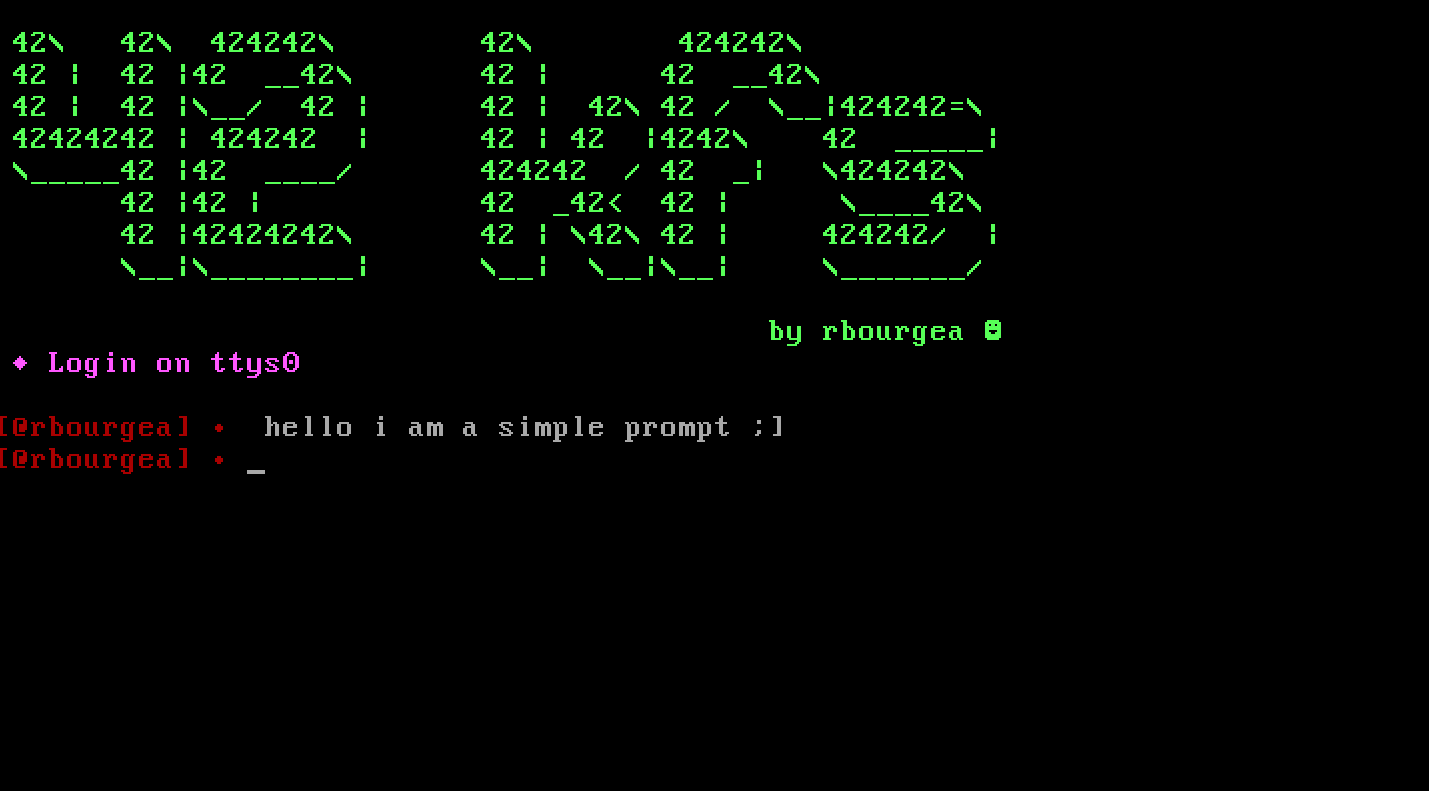
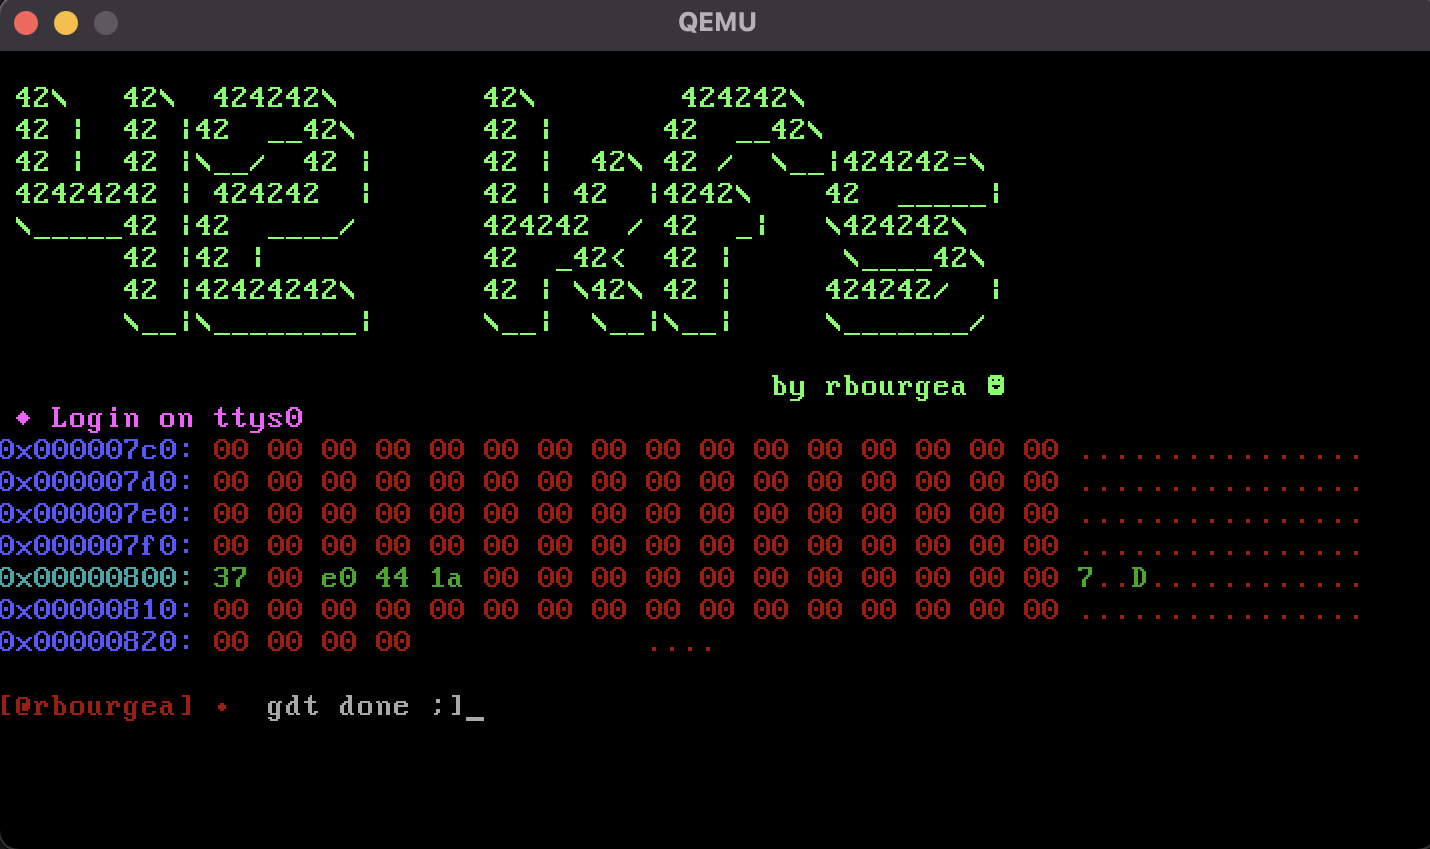
gdt done

diff --git a/src/kernel.c b/src/kernel.c
@@ -6,7 +6,7 @@
 /*   By: rbourgea <rbourgea@student.42.fr>          +#+  +:+       +#+        */
 /*                                                +#+#+#+#+#+   +#+           */
 /*   Created: 2022/06/16 16:29:20 by rbourgea          #+#    #+#             */
-/*   Updated: 2022/06/21 14:37:18 by rbourgea         ###   ########.fr       */
+/*   Updated: 2022/06/22 17:03:00 by rbourgea         ###   ########.fr       */
 /*                                                                            */
 /* ************************************************************************** */
 
@@ -266,16 +266,194 @@ void colrow_init(void)
 	}
 }
 
-void kmain()
+#define SEG_DESCTYPE(x)  ((x) << 0x04) // Descriptor type (0 for system, 1 for code/data)
+#define SEG_PRES(x)      ((x) << 0x07) // Present
+#define SEG_SAVL(x)      ((x) << 0x0C) // Available for system use
+#define SEG_LONG(x)      ((x) << 0x0D) // Long mode
+#define SEG_SIZE(x)      ((x) << 0x0E) // Size (0 for 16-bit, 1 for 32)
+#define SEG_GRAN(x)      ((x) << 0x0F) // Granularity (0 for 1B - 1MB, 1 for 4KB - 4GB)
+#define SEG_PRIV(x)     (((x) &  0x03) << 0x05)   // Set privilege level (0 - 3)
+ 
+#define SEG_DATA_RD        0x00 // Read-Only
+#define SEG_DATA_RDA       0x01 // Read-Only, accessed
+#define SEG_DATA_RDWR      0x02 // Read/Write
+#define SEG_DATA_RDWRA     0x03 // Read/Write, accessed
+#define SEG_DATA_RDEXPD    0x04 // Read-Only, expand-down
+#define SEG_DATA_RDEXPDA   0x05 // Read-Only, expand-down, accessed
+#define SEG_DATA_RDWREXPD  0x06 // Read/Write, expand-down
+#define SEG_DATA_RDWREXPDA 0x07 // Read/Write, expand-down, accessed
+#define SEG_CODE_EX        0x08 // Execute-Only
+#define SEG_CODE_EXA       0x09 // Execute-Only, accessed
+#define SEG_CODE_EXRD      0x0A // Execute/Read
+#define SEG_CODE_EXRDA     0x0B // Execute/Read, accessed
+#define SEG_CODE_EXC       0x0C // Execute-Only, conforming
+#define SEG_CODE_EXCA      0x0D // Execute-Only, conforming, accessed
+#define SEG_CODE_EXRDC     0x0E // Execute/Read, conforming
+#define SEG_CODE_EXRDCA    0x0F // Execute/Read, conforming, accessed
+ 
+#define GDT_CODE_PL0	SEG_DESCTYPE(1) | SEG_PRES(1) | SEG_SAVL(0) | \
+			SEG_LONG(0)     | SEG_SIZE(1) | SEG_GRAN(1) | \
+			SEG_PRIV(0)     | SEG_CODE_EXRD
+ 
+#define GDT_DATA_PL0	SEG_DESCTYPE(1) | SEG_PRES(1) | SEG_SAVL(0) | \
+			SEG_LONG(0)     | SEG_SIZE(1) | SEG_GRAN(1) | \
+			SEG_PRIV(0)     | SEG_DATA_RDWR
+
+#define GDT_STACK_PL0	SEG_DESCTYPE(1) | SEG_PRES(1) | SEG_SAVL(0) | \
+			SEG_LONG(0)     | SEG_SIZE(1) | SEG_GRAN(1) | \
+			SEG_PRIV(0)     | SEG_DATA_RDWREXPD
+ 
+#define GDT_CODE_PL3	SEG_DESCTYPE(1) | SEG_PRES(1) | SEG_SAVL(0) | \
+			SEG_LONG(0)     | SEG_SIZE(1) | SEG_GRAN(1) | \
+			SEG_PRIV(3)     | SEG_CODE_EXRD
+ 
+#define GDT_DATA_PL3	SEG_DESCTYPE(1) | SEG_PRES(1) | SEG_SAVL(0) | \
+			SEG_LONG(0)     | SEG_SIZE(1) | SEG_GRAN(1) | \
+			SEG_PRIV(3)     | SEG_DATA_RDWR
+
+#define GDT_STACK_PL3	SEG_DESCTYPE(1) | SEG_PRES(1) | SEG_SAVL(0) | \
+			SEG_LONG(0)     | SEG_SIZE(1) | SEG_GRAN(1) | \
+			SEG_PRIV(3)     | SEG_DATA_RDWREXPD
+
+#define GDT_ADDRESS	0x00000800
+#define GDT_ENTRIES	7
+#define FLAG_D_32	0xCF
+
+typedef struct  __attribute__((packed)) gdt_entry
+{
+   uint16_t limit_low;           // The lower 16 bits of the limit.
+   uint16_t base_low;            // The lower 16 bits of the base.
+   uint8_t  base_middle;         // The next 8 bits of the base.
+   uint8_t  access;              // Access flags, determine what ring this segment can be used in.
+   uint8_t  attributes;
+   uint8_t  base_high;           // The last 8 bits of the base.
+}  t_gdt_entry;
+
+typedef struct  __attribute__((packed)) gdt_ptr
+{
+   uint16_t limit;               // The upper 16 bits of all selector limits.
+   uint32_t base;                // The address of the first gdt_entry_t struct.
+} t_gdt_ptr;
+
+extern void load_gdt(uint32_t gdt_ptr);
+
+void init_gdt();
+
+t_gdt_entry     gdt_entries[GDT_ENTRIES];
+t_gdt_ptr       *gdt_ptr = (t_gdt_ptr *)GDT_ADDRESS;
+
+static void create_descriptor(int num, uint32_t base, uint32_t limit, uint8_t access, uint8_t flags)
+{
+	gdt_entries[num].limit_low = (limit & 0xFFFF);
+	gdt_entries[num].base_low = (base & 0xFFFF);
+	gdt_entries[num].base_middle = (base >> 16) & 0xFF;
+	gdt_entries[num].access = access;
+	gdt_entries[num].attributes = (limit >> 16) & 0x0F;
+	gdt_entries[num].attributes |= ((flags << 4) & 0xF0);
+	gdt_entries[num].base_high = (base >> 24) & 0xFF;
+}
+
+void	init_gdt()
+{
+	gdt_ptr->limit = (sizeof(t_gdt_entry) * GDT_ENTRIES) - 1;
+	gdt_ptr->base = ((uint32_t)(&gdt_entries));
+
+	create_descriptor(0, 0, 0, 0, FLAG_D_32);			// null
+	create_descriptor(1, 0, 0xFFFFF, (uint8_t)(GDT_CODE_PL0),  FLAG_D_32);	// kernel code
+	create_descriptor(2, 0, 0xFFFFF, (uint8_t)(GDT_DATA_PL0),  FLAG_D_32);	// kernel data
+	create_descriptor(3, 0, 0xFFFFF, (uint8_t)(GDT_STACK_PL0), FLAG_D_32);	// kernel stack
+	create_descriptor(4, 0, 0xBFFFF, (uint8_t)(GDT_CODE_PL3),  FLAG_D_32);	// user code
+	create_descriptor(5, 0, 0xBFFFF, (uint8_t)(GDT_DATA_PL3),  FLAG_D_32);	// user data
+	create_descriptor(6, 0, 0xBFFFF, (uint8_t)(GDT_STACK_PL3), FLAG_D_32);	// user stack
+
+	load_gdt(((uint32_t)gdt_ptr));
+}
+
+void	khexdump(uint32_t addr, int limit)
+{
+	char *c = (char *)addr;
+	char str_addr[9];
+	int i;
+	uint32_t previous;
+
+	if (limit <= 0)
+		return;
+	for (i = 0; i < limit; i++)
+	{
+		if ((i % 16) == 0) // 16 = size line
+		{
+			if (i != 0)
+			{
+				previous = addr - 16;
+				while (previous < addr)
+				{
+					if (*(char *)previous <= 32)
+					{
+						kcolor(VGA_COLOR_RED);
+						printk("%c", '.');
+					}
+					else
+					{
+						kcolor(VGA_COLOR_GREEN);
+						printk("%c", *(char *)previous);
+					}
+					previous++;
+				}
+				printk("\n");
+			}
+			if ((uint32_t)0x00000800 == addr)
+				kcolor(VGA_COLOR_CYAN);
+			else
+				kcolor(VGA_COLOR_LIGHT_BLUE);
+			printk("%p: ", addr);
+		}
+		hex_to_str((uint32_t)c[i], str_addr, 3);
+		if ((uint32_t)c[i] == 0) // == 00
+			kcolor(VGA_COLOR_RED);
+		else
+			kcolor(VGA_COLOR_GREEN);
+		printk("%s ", str_addr);
+		kcolor(VGA_COLOR_WHITE);
+		addr++;
+	}
+	for (i = 0; i < ((limit % 16) * 3); i++) // last line
+		printk(" ");
+	if ((limit % 16) == 0)
+		previous = addr - 16;
+	else
+		previous = addr - (limit % 16);
+	while (previous < addr)
+	{
+		if (*(char *)previous <= 32)
+		{
+			kcolor(VGA_COLOR_RED);
+			printk("%c", '.');
+		}
+		else
+		{
+			kcolor(VGA_COLOR_GREEN);
+			printk("%c", *(char *)previous);
+		}
+		previous++;
+	}
+	printk("\n");
+	kcolor(VGA_COLOR_WHITE);
+}
+
+void	kmain()
 {
 	colrow_init();
 	terminal_initialize(-1);
+	// khexdump(0x00000800, 10);
+	init_gdt();
 	khello();
 	// printk(" \11 %s, %d%c\n\n", "Hello", 42, '!');
 
 	init_idt();
 	kb_init();
 	enable_interrupts();
+
+	khexdump(0x000007c0, 100);
 
 	kprompt(0);
 	while(42);

diff --git a/src/kernel.h b/src/kernel.h
@@ -6,7 +6,7 @@
 /*   By: rbourgea <rbourgea@student.42.fr>          +#+  +:+       +#+        */
 /*                                                +#+#+#+#+#+   +#+           */
 /*   Created: 2022/06/20 14:59:25 by user42            #+#    #+#             */
-/*   Updated: 2022/06/21 14:43:54 by rbourgea         ###   ########.fr       */
+/*   Updated: 2022/06/22 15:23:44 by rbourgea         ###   ########.fr       */
 /*                                                                            */
 /* ************************************************************************** */
 
@@ -138,5 +138,6 @@ void	terminal_initialize(int init);
 void	khello(void);
 void	printk(char *str, ...);
 void    terminal_putentryat(char c, uint8_t color, size_t x, size_t y);
+void	khexdump(uint32_t addr, int limit);
 
 #endif

diff --git a/README.md b/README.md
@@ -6,3 +6,13 @@ Discover the world of "Kernel Programming" and learn how to create your very own
 ## 📖 Kernel Bible
 https://wiki.osdev.org/Main_Page
 
+## 💾 Global Descriptor Table
+https://wiki.osdev.org/Global_Descriptor_Table
+
+https://wiki.osdev.org/GDT_Tutorial
+
+https://developpaper.com/write-os-kernel-from-scratch-global-descriptor-table-gdt/
+
+## 📚 Kernel Stack
+
+https://wiki.osdev.org/Stack
